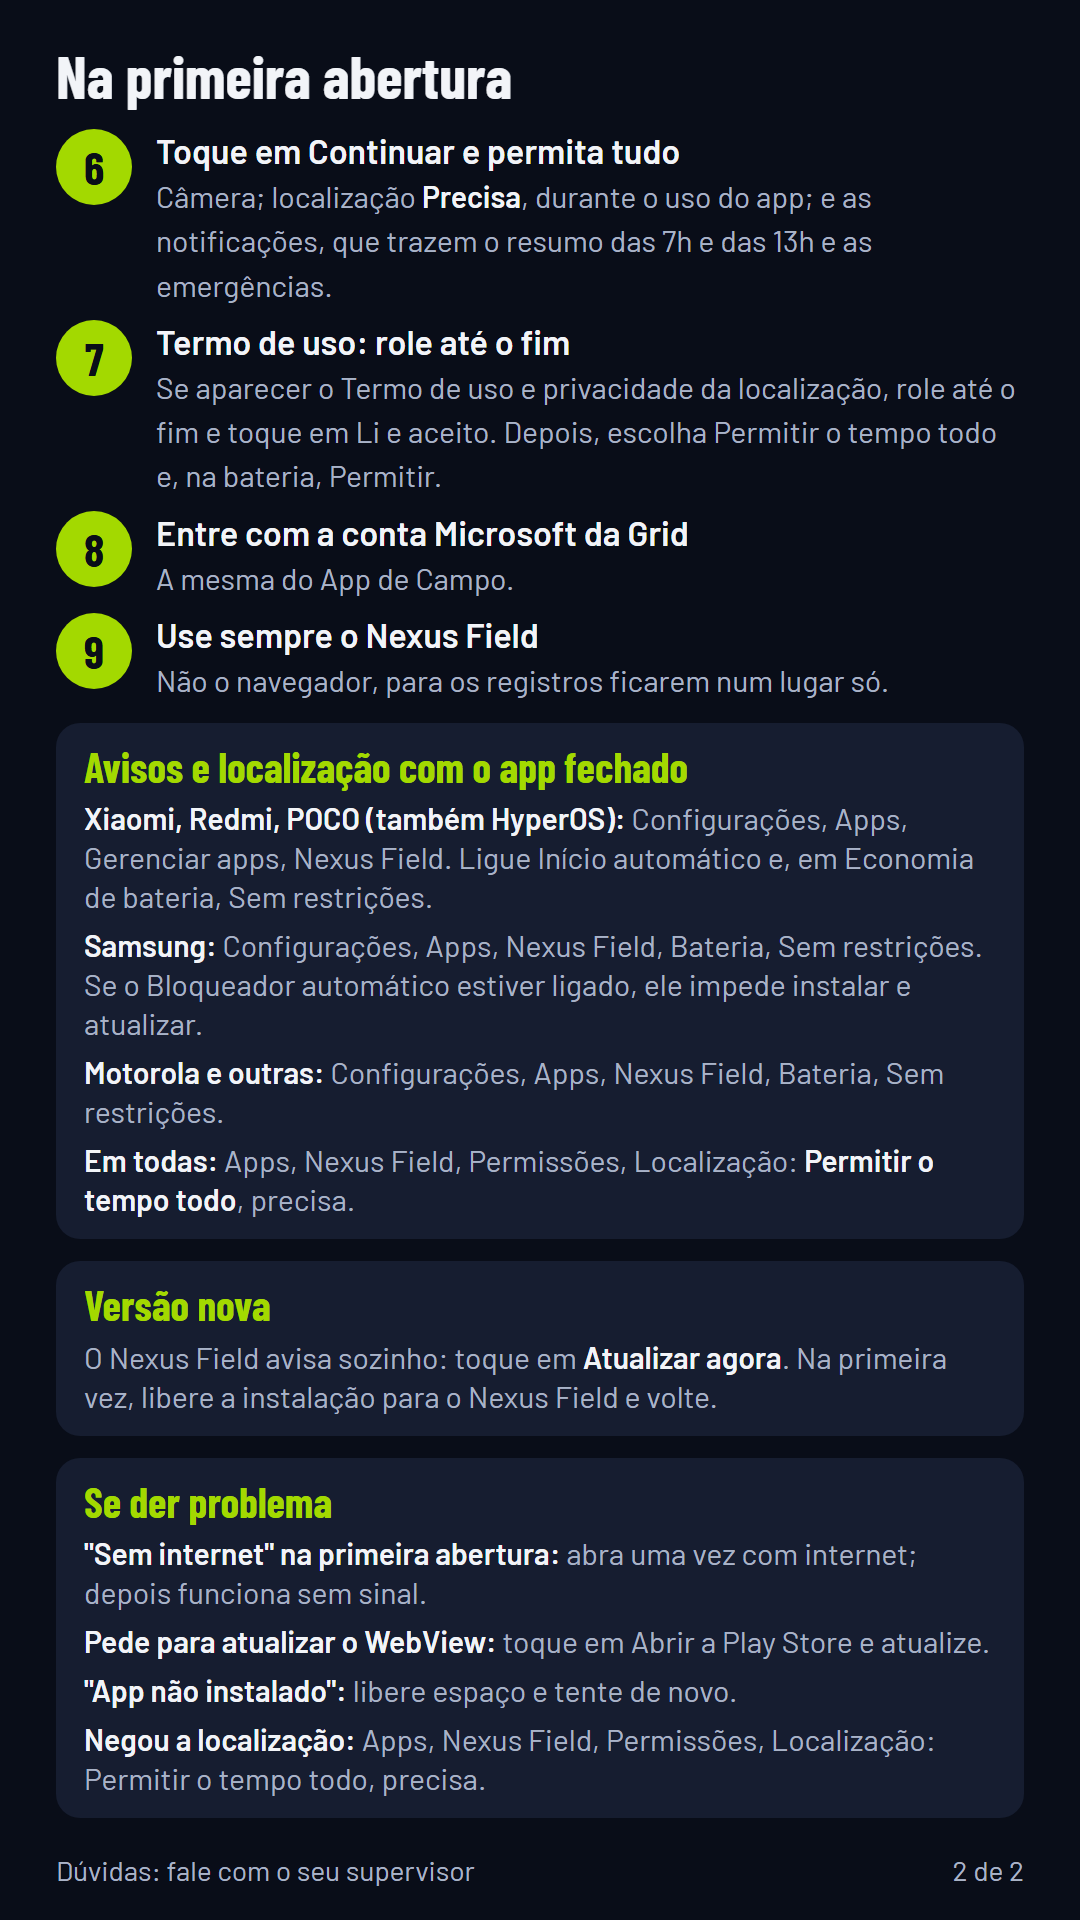
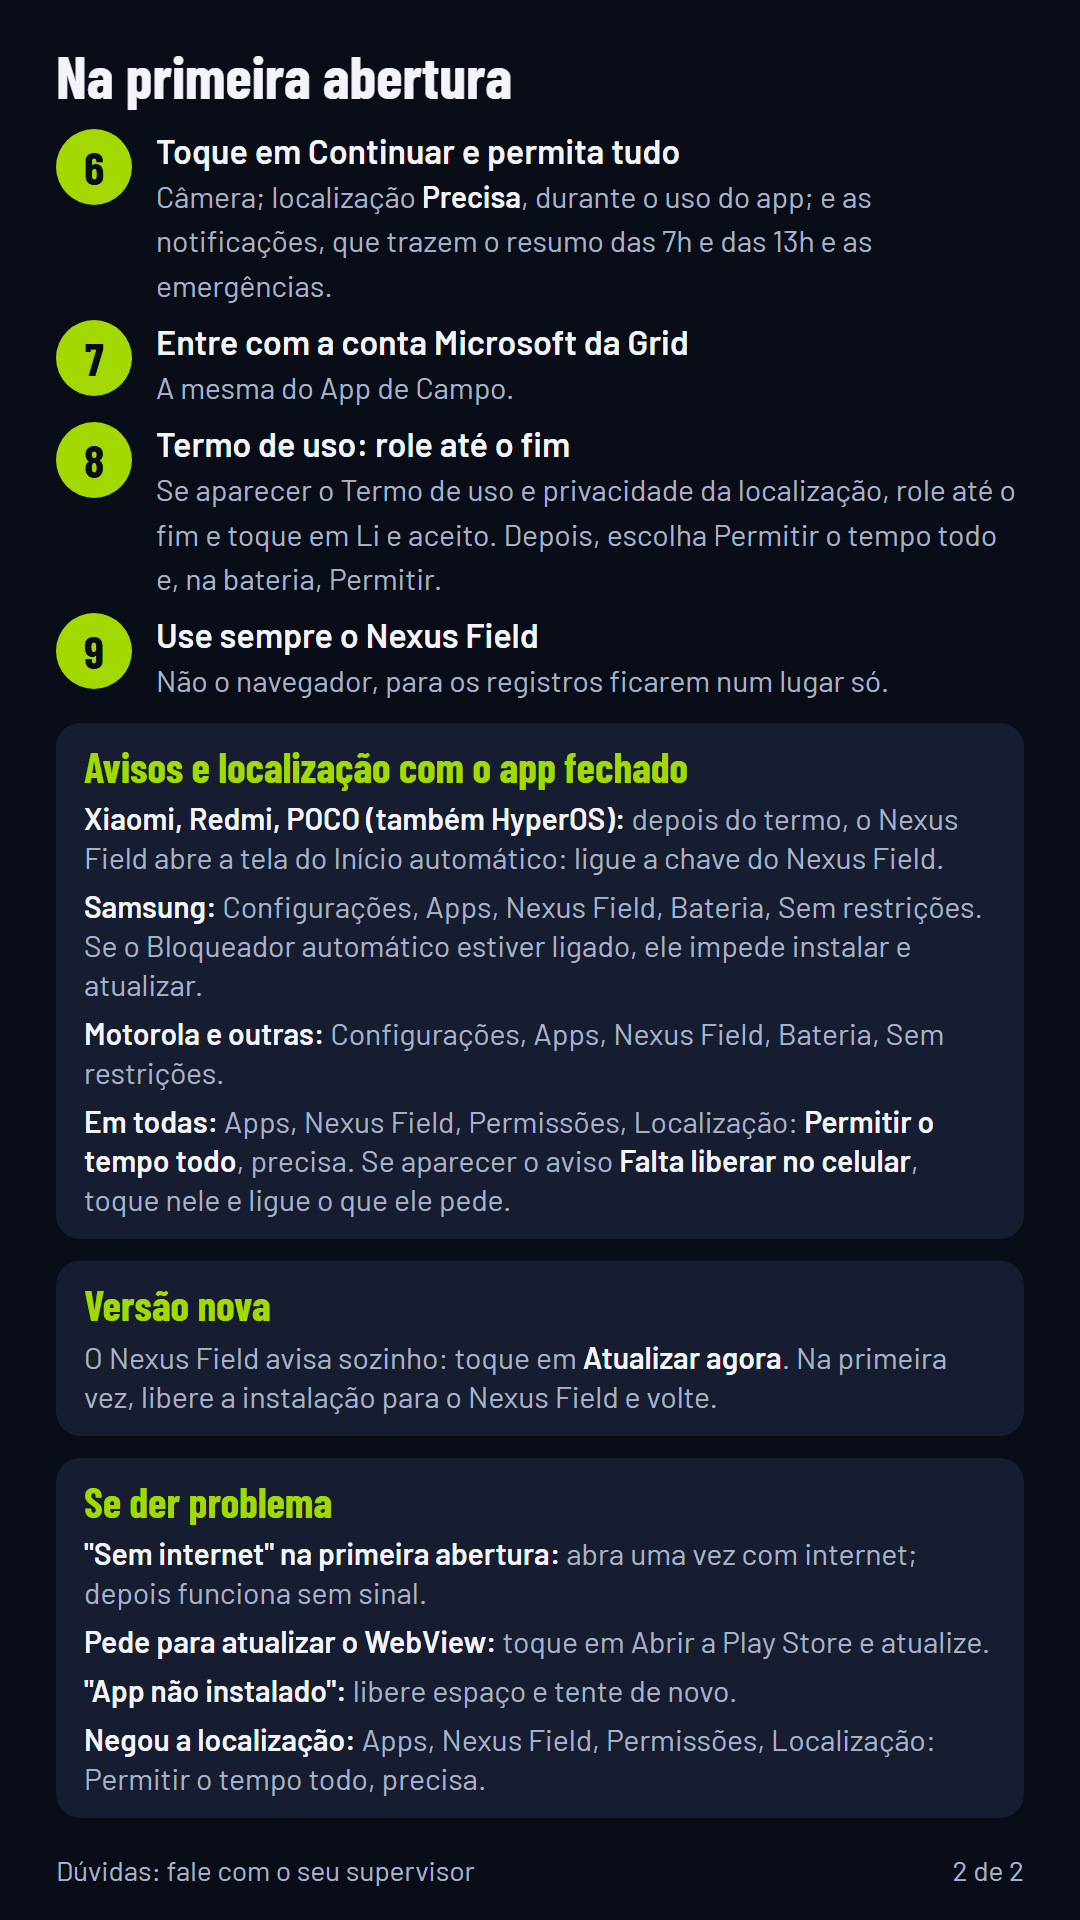
docs(instalacao): o Início automático pela tela que o Nexus Field abre, o aviso do que falta e o login antes do termo
A prova de 10/11/2026 no celular do dono: no HyperOS 2 os detalhes do app não têm a chave do Início automático, e o
cartão mandava procurá-la lá. O termo só aparece depois do login (a conta é o que põe a pessoa no piloto), e o cartão o
punha antes.

Changed region(s): [[0.0611, 0.4062, 0.9167, 0.6562], [0.0306, 0.1562, 0.9167, 0.3125]]

diff --git a/docs/instalacao/guia.fonte.html b/docs/instalacao/guia.fonte.html
@@ -119,8 +119,8 @@
     <h2 id="t-abertura">Na primeira abertura</h2>
     <ol class="passos" style="--inicio: 5">
       <li><div><strong>Permita câmera, localização e notificações</strong><span class="suave">Toque em <span class="botao">Continuar</span>. Na localização, escolha <strong>Precisa</strong> e <strong>Durante o uso do app</strong>. Nas notificações, <span class="botao">Permitir</span>: é por elas que chegam o resumo das 7h e das 13h e as emergências.</span></div></li>
-      <li><div><strong>Se aparecer o Termo de uso e privacidade da localização</strong><span class="suave">É a coleta da posição para o mapa da equipe, só para quem o Nexus indicar. Leia o termo até o fim: o botão <span class="botao">Li e aceito</span> só liga quando o fim do texto aparece na tela. Toque nele. Em seguida vêm as telas do próprio celular: na localização, escolha <strong>Permitir o tempo todo</strong> (do Android 11 em diante, o celular abre os ajustes do Nexus Field: toque em <strong>Permitir o tempo todo</strong> e volte), com a localização <strong>Precisa</strong>; na bateria, toque em <span class="botao">Permitir</span>. Assim a coleta do dia volta sozinha se o celular reiniciar ou o app for atualizado.</span></div></li>
       <li><div><strong>Entre com a sua conta Microsoft da Grid</strong><span class="suave">A mesma que você usa no App de Campo.</span></div></li>
+      <li><div><strong>Se aparecer o Termo de uso e privacidade da localização</strong><span class="suave">É a coleta da posição para o mapa da equipe, só para quem o Nexus indicar. Leia o termo até o fim: o botão <span class="botao">Li e aceito</span> só liga quando o fim do texto aparece na tela. Toque nele. Em seguida vêm as telas do próprio celular: na localização, escolha <strong>Permitir o tempo todo</strong> (do Android 11 em diante, o celular abre os ajustes do Nexus Field: toque em <strong>Permitir o tempo todo</strong> e volte), com a localização <strong>Precisa</strong>; na bateria, toque em <span class="botao">Permitir</span>. Assim a coleta do dia volta sozinha se o celular reiniciar ou o app for atualizado.</span></div></li>
       <li><div><strong>Pronto</strong><span class="suave">Use sempre o Nexus Field, não o navegador, para os registros ficarem num lugar só.</span></div></li>
     </ol>
   </section>
@@ -131,7 +131,7 @@
       <article class="marca">
         <h3>Xiaomi, Redmi e POCO</h3>
         <p>Antes de instalar, a Xiaomi pode verificar o arquivo: espere e toque em <span class="botao">Instalar</span>.</p>
-        <p>Para os avisos chegarem com o app fechado: Configurações, Apps, Gerenciar apps, Nexus Field. Ligue <strong>Início automático</strong> e, em Economia de bateria, escolha <strong>Sem restrições</strong>. No HyperOS o caminho é o mesmo. É o mesmo ajuste que deixa a localização da equipe seguir com o app fechado e voltar sozinha depois de o celular reiniciar.</p>
+        <p>Para os avisos e a localização seguirem com o app fechado: depois do termo, o Nexus Field abre sozinho a tela do <strong>Início automático</strong>; ligue a chave do Nexus Field (no HyperOS 2 ela não fica nos detalhes do app, só nessa tela). Na janela da bateria, toque em <strong>Permitir</strong>. Se algo ficar faltando, o aviso <strong>Falta liberar no celular</strong> diz o quê, e o toque nele abre a tela certa.</p>
         <p>Para a localização da equipe, na mesma tela: Permissões, Localização, <strong>Permitir o tempo todo</strong>, com <strong>Usar localização precisa</strong> ligado.</p>
       </article>
       <article class="marca">

diff --git a/docs/instalacao/guia.html b/docs/instalacao/guia.html
@@ -119,8 +119,8 @@
     <h2 id="t-abertura">Na primeira abertura</h2>
     <ol class="passos" style="--inicio: 5">
       <li><div><strong>Permita câmera, localização e notificações</strong><span class="suave">Toque em <span class="botao">Continuar</span>. Na localização, escolha <strong>Precisa</strong> e <strong>Durante o uso do app</strong>. Nas notificações, <span class="botao">Permitir</span>: é por elas que chegam o resumo das 7h e das 13h e as emergências.</span></div></li>
-      <li><div><strong>Se aparecer o Termo de uso e privacidade da localização</strong><span class="suave">É a coleta da posição para o mapa da equipe, só para quem o Nexus indicar. Leia o termo até o fim: o botão <span class="botao">Li e aceito</span> só liga quando o fim do texto aparece na tela. Toque nele. Em seguida vêm as telas do próprio celular: na localização, escolha <strong>Permitir o tempo todo</strong> (do Android 11 em diante, o celular abre os ajustes do Nexus Field: toque em <strong>Permitir o tempo todo</strong> e volte), com a localização <strong>Precisa</strong>; na bateria, toque em <span class="botao">Permitir</span>. Assim a coleta do dia volta sozinha se o celular reiniciar ou o app for atualizado.</span></div></li>
       <li><div><strong>Entre com a sua conta Microsoft da Grid</strong><span class="suave">A mesma que você usa no App de Campo.</span></div></li>
+      <li><div><strong>Se aparecer o Termo de uso e privacidade da localização</strong><span class="suave">É a coleta da posição para o mapa da equipe, só para quem o Nexus indicar. Leia o termo até o fim: o botão <span class="botao">Li e aceito</span> só liga quando o fim do texto aparece na tela. Toque nele. Em seguida vêm as telas do próprio celular: na localização, escolha <strong>Permitir o tempo todo</strong> (do Android 11 em diante, o celular abre os ajustes do Nexus Field: toque em <strong>Permitir o tempo todo</strong> e volte), com a localização <strong>Precisa</strong>; na bateria, toque em <span class="botao">Permitir</span>. Assim a coleta do dia volta sozinha se o celular reiniciar ou o app for atualizado.</span></div></li>
       <li><div><strong>Pronto</strong><span class="suave">Use sempre o Nexus Field, não o navegador, para os registros ficarem num lugar só.</span></div></li>
     </ol>
   </section>
@@ -131,7 +131,7 @@
       <article class="marca">
         <h3>Xiaomi, Redmi e POCO</h3>
         <p>Antes de instalar, a Xiaomi pode verificar o arquivo: espere e toque em <span class="botao">Instalar</span>.</p>
-        <p>Para os avisos chegarem com o app fechado: Configurações, Apps, Gerenciar apps, Nexus Field. Ligue <strong>Início automático</strong> e, em Economia de bateria, escolha <strong>Sem restrições</strong>. No HyperOS o caminho é o mesmo. É o mesmo ajuste que deixa a localização da equipe seguir com o app fechado e voltar sozinha depois de o celular reiniciar.</p>
+        <p>Para os avisos e a localização seguirem com o app fechado: depois do termo, o Nexus Field abre sozinho a tela do <strong>Início automático</strong>; ligue a chave do Nexus Field (no HyperOS 2 ela não fica nos detalhes do app, só nessa tela). Na janela da bateria, toque em <strong>Permitir</strong>. Se algo ficar faltando, o aviso <strong>Falta liberar no celular</strong> diz o quê, e o toque nele abre a tela certa.</p>
         <p>Para a localização da equipe, na mesma tela: Permissões, Localização, <strong>Permitir o tempo todo</strong>, com <strong>Usar localização precisa</strong> ligado.</p>
       </article>
       <article class="marca">

diff --git a/docs/instalacao/cartao-2.fonte.html b/docs/instalacao/cartao-2.fonte.html
@@ -30,16 +30,16 @@
   <h2>Na primeira abertura</h2>
   <ol>
     <li><div><b>Toque em Continuar e permita tudo</b><span>Câmera; localização <b>Precisa</b>, durante o uso do app; e as notificações, que trazem o resumo das 7h e das 13h e as emergências.</span></div></li>
-    <li><div><b>Termo de uso: role até o fim</b><span>Se aparecer o Termo de uso e privacidade da localização, role até o fim e toque em Li e aceito. Depois, escolha Permitir o tempo todo e, na bateria, Permitir.</span></div></li>
     <li><div><b>Entre com a conta Microsoft da Grid</b><span>A mesma do App de Campo.</span></div></li>
+    <li><div><b>Termo de uso: role até o fim</b><span>Se aparecer o Termo de uso e privacidade da localização, role até o fim e toque em Li e aceito. Depois, escolha Permitir o tempo todo e, na bateria, Permitir.</span></div></li>
     <li><div><b>Use sempre o Nexus Field</b><span>Não o navegador, para os registros ficarem num lugar só.</span></div></li>
   </ol>
   <div class="bloco">
     <h3>Avisos e localização com o app fechado</h3>
-    <p><b>Xiaomi, Redmi, POCO (também HyperOS):</b> Configurações, Apps, Gerenciar apps, Nexus Field. Ligue Início automático e, em Economia de bateria, Sem restrições.</p>
+    <p><b>Xiaomi, Redmi, POCO (também HyperOS):</b> depois do termo, o Nexus Field abre a tela do Início automático: ligue a chave do Nexus Field.</p>
     <p><b>Samsung:</b> Configurações, Apps, Nexus Field, Bateria, Sem restrições. Se o Bloqueador automático estiver ligado, ele impede instalar e atualizar.</p>
     <p><b>Motorola e outras:</b> Configurações, Apps, Nexus Field, Bateria, Sem restrições.</p>
-    <p><b>Em todas:</b> Apps, Nexus Field, Permissões, Localização: <b>Permitir o tempo todo</b>, precisa.</p>
+    <p><b>Em todas:</b> Apps, Nexus Field, Permissões, Localização: <b>Permitir o tempo todo</b>, precisa. Se aparecer o aviso <b>Falta liberar no celular</b>, toque nele e ligue o que ele pede.</p>
   </div>
   <div class="bloco">
     <h3>Versão nova</h3>
